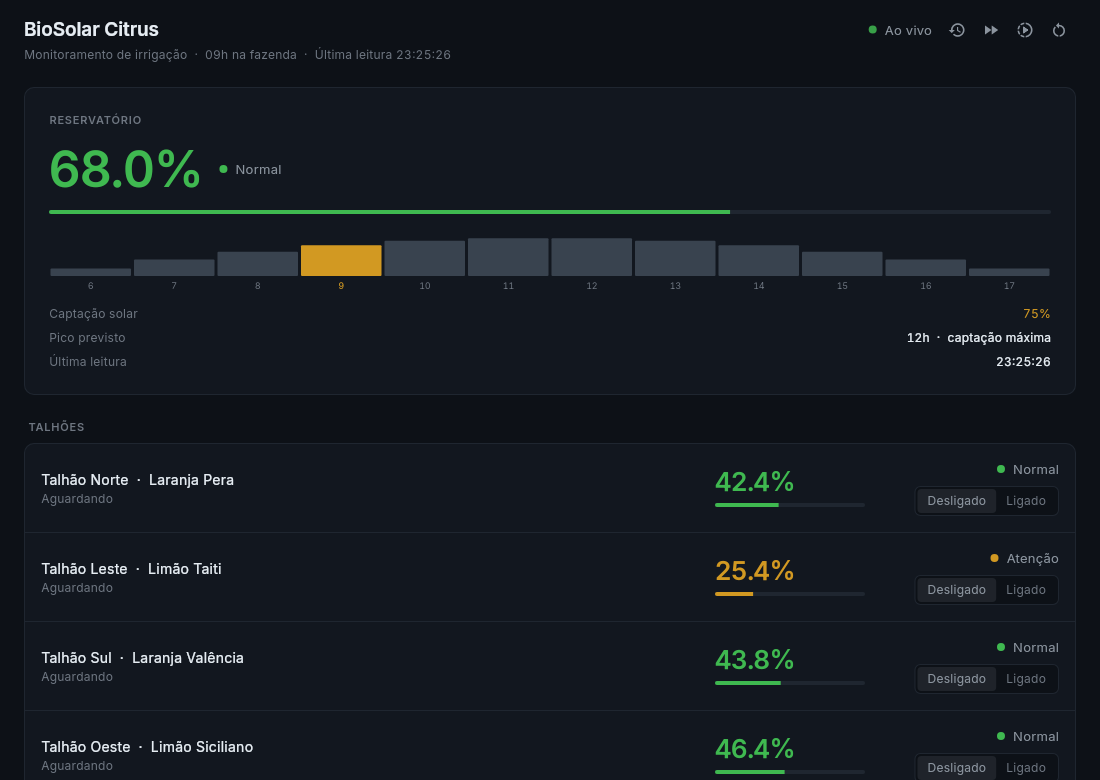
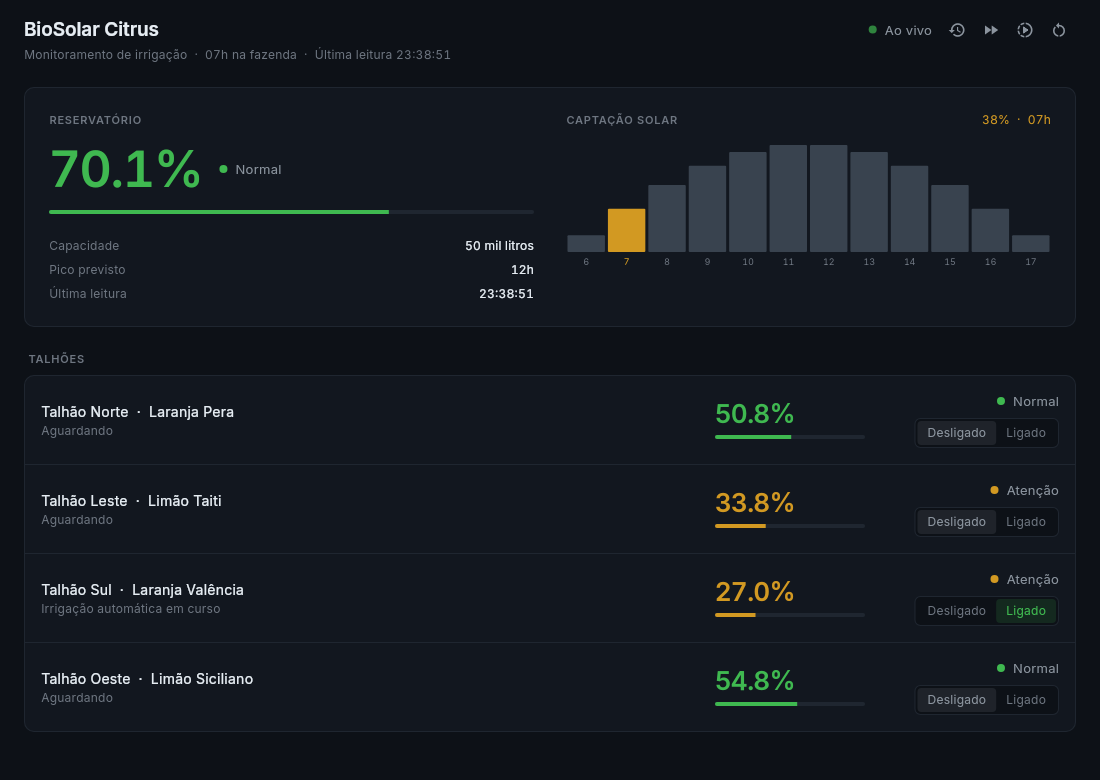
refactor(app): fim das capsulas de estado e reservatorio em duas colunas
O controle travado perdeu a pilula e virou cadeado mais a palavra Travado em
caixa normal e cor terciaria, igual ao ponto e texto que ja marcava o estado do
reservatorio e dos talhoes. Nao resta nenhuma capsula tingida de estado no
painel, e a cor continua saindo de Cores.da(faixa).

O cartao do reservatorio virou duas colunas. A esquerda o nivel, a barra e os
pares de rotulo e valor; a direita o titulo, a captacao do momento e as doze
barras. Abaixo de 700 pixels as colunas empilham com o grafico embaixo.

Em duas colunas o grafico ficou mais alto, para equilibrar a coluna da esquerda
em vez de ser uma tira no topo. Com mais altura a curva do sol finalmente se le
de relance, que era o ponto de ter trocado o arco por barras.

Conferido em 560, 820 e 1200. Doze testes de regra e quatro de bloc passando.

diff --git a/app/lib/funcionalidades/monitoramento/apresentacao/tela_monitoramento.dart b/app/lib/funcionalidades/monitoramento/apresentacao/tela_monitoramento.dart
@@ -21,6 +21,9 @@ const double _larguraMaxima = 1100;
 /// Abaixo disto a linha do talhão empilha em vez de usar três blocos.
 const double _corteLinha = 620;
 
+/// Abaixo disto o cartão do reservatório deixa de ser duas colunas.
+const double _corteColunas = 700;
+
 class TelaMonitoramento extends StatelessWidget {
   const TelaMonitoramento({super.key});
 
@@ -399,32 +402,75 @@ class _CartaoReservatorio extends StatelessWidget {
     final fator = telemetria.fatorSolarAtual;
     final noite = fator == 0;
 
-    return Cartao(
-      preenchimento: const EdgeInsets.all(Espaco.g),
-      child: Column(crossAxisAlignment: CrossAxisAlignment.start, children: [
+    final nivel = Column(
+      crossAxisAlignment: CrossAxisAlignment.start,
+      mainAxisSize: MainAxisSize.min,
+      children: [
         Text('RESERVATÓRIO', style: Fontes.secao()),
         const SizedBox(height: Espaco.m),
-        Row(
-          crossAxisAlignment: CrossAxisAlignment.center,
-          children: [
-            ValorAnimado(valor: reservatorio.nivel, cor: cor, tamanho: 50),
-            const SizedBox(width: Espaco.m),
-            PontoEstado(reservatorio.faixa),
-          ],
-        ),
+        Row(children: [
+          ValorAnimado(valor: reservatorio.nivel, cor: cor, tamanho: 50),
+          const SizedBox(width: Espaco.m),
+          PontoEstado(reservatorio.faixa),
+        ]),
         const SizedBox(height: Espaco.m),
         BarraNivel(fracao: reservatorio.nivel / 100, cor: cor),
         const SizedBox(height: Espaco.g),
-        _BarrasSolares(telemetria: telemetria),
-        const SizedBox(height: Espaco.m),
-        ParDado('Captação solar',
-            noite ? 'parada (noite)' : '${(fator * 100).round()}%',
-            cor: noite ? Cores.textoSecundario : Cores.ambar),
+        ParDado('Capacidade',
+            '${(reservatorio.capacidadeLitros / 1000).toStringAsFixed(0)} mil litros'),
         const SizedBox(height: Espaco.p),
-        const ParDado('Pico previsto', '12h  ·  captação máxima'),
+        const ParDado('Pico previsto', '12h'),
         const SizedBox(height: Espaco.p),
         ParDado('Última leitura', _hora(telemetria.hora)),
-      ]),
+      ],
+    );
+
+    Widget captacaoCom(double alturaGrafico) => Column(
+      crossAxisAlignment: CrossAxisAlignment.start,
+      mainAxisSize: MainAxisSize.min,
+      children: [
+        Row(children: [
+          Expanded(child: Text('CAPTAÇÃO SOLAR', style: Fontes.secao())),
+          Text(
+            noite
+                ? 'parada (noite)'
+                : '${(fator * 100).round()}%  ·  '
+                    '${telemetria.horaSimulada.floor().toString().padLeft(2, '0')}h',
+            style: Fontes.corpo(
+                noite ? Cores.textoSecundario : Cores.ambar,
+                tamanho: 12),
+          ),
+        ]),
+        const SizedBox(height: Espaco.m),
+        _BarrasSolares(telemetria: telemetria, altura: alturaGrafico),
+      ],
+    );
+
+    return Cartao(
+      preenchimento: const EdgeInsets.all(Espaco.g),
+      child: LayoutBuilder(builder: (context, limites) {
+        // Abaixo do corte as duas colunas empilham, com o gráfico embaixo.
+        if (limites.maxWidth < _corteColunas) {
+          return Column(
+            crossAxisAlignment: CrossAxisAlignment.start,
+            children: [
+              nivel,
+              const SizedBox(height: Espaco.g),
+              captacaoCom(56),
+            ],
+          );
+        }
+        return Row(
+          crossAxisAlignment: CrossAxisAlignment.start,
+          children: [
+            Expanded(child: nivel),
+            const SizedBox(width: Espaco.xg),
+            // Mais alto em duas colunas, para o gráfico equilibrar a coluna
+            // da esquerda em vez de ficar uma tira no topo.
+            Expanded(child: captacaoCom(122)),
+          ],
+        );
+      }),
     );
   }
 }
@@ -437,13 +483,14 @@ class _CartaoReservatorio extends StatelessWidget {
 /// Align e Container para doze barras rendeu alturas todas iguais, e aqui cada
 /// retângulo é explícito.
 class _BarrasSolares extends StatelessWidget {
-  const _BarrasSolares({required this.telemetria});
+  const _BarrasSolares({required this.telemetria, required this.altura});
 
   final Telemetria telemetria;
+  final double altura;
 
   @override
   Widget build(BuildContext context) => SizedBox(
-        height: 52,
+        height: altura,
         width: double.infinity,
         child: CustomPaint(
           painter: _PintorBarras(horaAtual: telemetria.horaSimulada.floor()),

diff --git a/app/lib/nucleo/tema.dart b/app/lib/nucleo/tema.dart
@@ -237,21 +237,15 @@ class Interruptor extends StatelessWidget {
 
   @override
   Widget build(BuildContext context) {
+    // Sem pílula: cadeado e a palavra, como o estado ao lado. O que comunica
+    // aqui é o ícone e o texto, não uma caixa em volta deles.
     if (travado) {
-      return Container(
-        padding: const EdgeInsets.symmetric(
-            horizontal: Espaco.p + 2, vertical: Espaco.xs + 2),
-        decoration: BoxDecoration(
-          color: Cores.fundo,
-          borderRadius: BorderRadius.circular(Raio.interno),
-          border: Border.all(color: Cores.borda),
-        ),
-        child: Row(mainAxisSize: MainAxisSize.min, children: [
-          const Icon(Icons.lock_outline, size: 12, color: Cores.textoTerciario),
-          const SizedBox(width: Espaco.p - 2),
-          Text('Travado', style: Fontes.corpo(Cores.textoTerciario, tamanho: 12)),
-        ]),
-      );
+      return Row(mainAxisSize: MainAxisSize.min, children: [
+        const Icon(Icons.lock_outline, size: 13, color: Cores.textoTerciario),
+        const SizedBox(width: Espaco.p - 2),
+        Text('Travado',
+            style: Fontes.corpo(Cores.textoTerciario, tamanho: 12)),
+      ]);
     }
 
     return Container(
